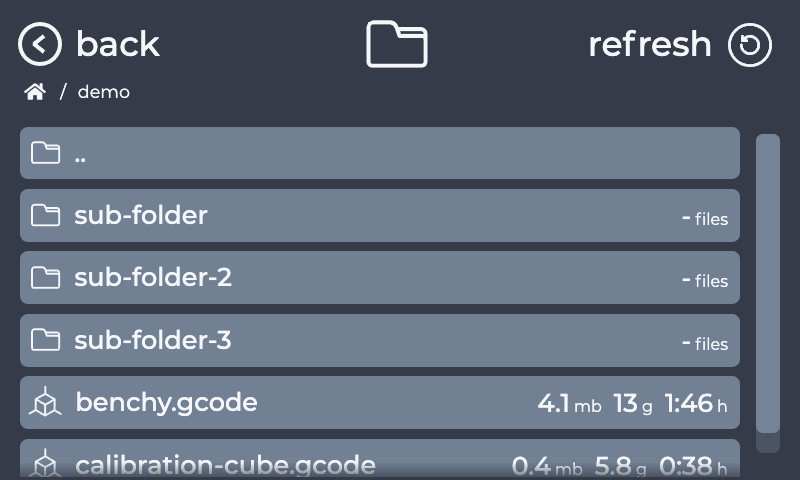
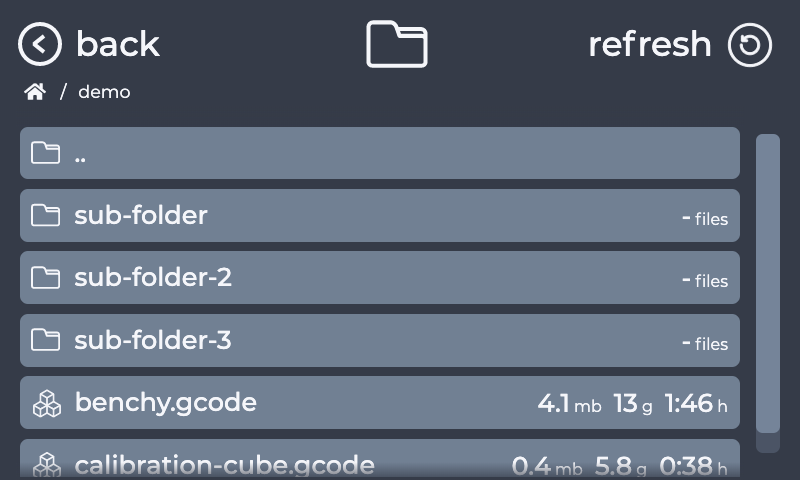
Callout Adjustments + Close on save (#322)
* Slightly update object icon

* Now working

* Update Screenshots

Changed region(s): [[0.0312, 0.9375, 0.4688, 1.0], [0.0312, 0.8125, 0.3125, 0.875], [0.0938, 0.1875, 0.1562, 0.2188]]

diff --git a/src/app/print-control/print-control.component.html b/src/app/print-control/print-control.component.html
@@ -55,50 +55,60 @@
             <tr>
                 <td class="print-control__adjust__change-parameter">
                     <div class="print-control__adjust__controller">
-                        <div class="print-control__adjust__controller-increase" (click)="changeTemperatureHotend(1)">+
+                        <div class="print-control__adjust__controller-increase" (click)="changeTemperatureHotend(1)"
+                            matRipple [matRippleUnbounded]="false">+
                         </div>
                         <div class="print-control__adjust__controller-value">
                             {{ temperatureHotend }}<span class="print-control__adjust__controller-value-unit">°C</span>
                         </div>
-                        <div class="print-control__adjust__controller-decrease" (click)="changeTemperatureHotend(-1)">-
+                        <div class="print-control__adjust__controller-decrease" (click)="changeTemperatureHotend(-1)"
+                            matRipple [matRippleUnbounded]="false">-
                         </div>
                     </div>
                     <span class="print-control__adjust__name">Hotend</span>
                 </td>
                 <td class="print-control__adjust__change-parameter">
                     <div class="print-control__adjust__controller">
-                        <div class="print-control__adjust__controller-increase" (click)="changeTemperatureHeatbed(1)">+
+                        <div class="print-control__adjust__controller-increase" (click)="changeTemperatureHeatbed(1)"
+                            matRipple [matRippleUnbounded]="false">+
                         </div>
                         <div class="print-control__adjust__controller-value">
                             {{ temperatureHeatbed }}<span class="print-control__adjust__controller-value-unit">°C</span>
                         </div>
-                        <div class="print-control__adjust__controller-decrease" (click)="changeTemperatureHeatbed(-1)">-
+                        <div class="print-control__adjust__controller-decrease" (click)="changeTemperatureHeatbed(-1)"
+                            matRipple [matRippleUnbounded]="false">-
                         </div>
                     </div>
                     <span class="print-control__adjust__name">Heatbed</span>
                 </td>
                 <td class="print-control__adjust__change-parameter">
                     <div class="print-control__adjust__controller">
-                        <div class="print-control__adjust__controller-increase" (click)="changeFeedrate(1)">+</div>
+                        <div class="print-control__adjust__controller-increase" (click)="changeFeedrate(1)" matRipple
+                            [matRippleUnbounded]="false">+</div>
                         <div class="print-control__adjust__controller-value">
                             {{ feedrate }}<span class="print-control__adjust__controller-value-unit">%</span>
                         </div>
-                        <div class="print-control__adjust__controller-decrease" (click)="changeFeedrate(-1)">-</div>
+                        <div class="print-control__adjust__controller-decrease" (click)="changeFeedrate(-1)" matRipple
+                            [matRippleUnbounded]="false">-</div>
                     </div>
                     <span class="print-control__adjust__name">Feedrate</span>
                 </td>
                 <td class="print-control__adjust__change-parameter">
                     <div class="print-control__adjust__controller">
-                        <div class="print-control__adjust__controller-increase" (click)="changeFlowrate(1)">+</div>
+                        <div class="print-control__adjust__controller-increase" (click)="changeFlowrate(1)" matRipple
+                            [matRippleUnbounded]="false">+</div>
                         <div class="print-control__adjust__controller-value">
                             {{ flowrate }}<span class="print-control__adjust__controller-value-unit">%</span>
                         </div>
-                        <div class="print-control__adjust__controller-decrease" (click)="changeFlowrate(-1)">-</div>
+                        <div class="print-control__adjust__controller-decrease" (click)="changeFlowrate(-1)" matRipple
+                            [matRippleUnbounded]="false">-</div>
                     </div>
                     <span class="print-control__adjust__name">Flowrate</span>
                 </td>
             </tr>
         </table>
-        <div class="print-control__adjust__save" (click)="setAdjustParameters()">save</div>
+        <div class="print-control__adjust__save" (click)="setAdjustParameters($event)" matRipple
+            [matRippleUnbounded]="false">
+            save</div>
     </div>
 </div>

diff --git a/src/app/print-control/print-control.component.ts b/src/app/print-control/print-control.component.ts
@@ -118,11 +118,12 @@ export class PrintControlComponent implements OnInit {
     if (this.flowrate > 125) { this.flowrate = 125; }
   }
 
-  public setAdjustParameters() {
+  public setAdjustParameters(event) {
     this.printerService.setTemperatureHotend(this.temperatureHotend);
     this.printerService.setTemperatureHeatbed(this.temperatureHeatbed);
     this.printerService.setFeedrate(this.feedrate);
     this.printerService.setFlowrate(this.flowrate);
+    this.hideControlOverlay(event);
   }
 
 }
